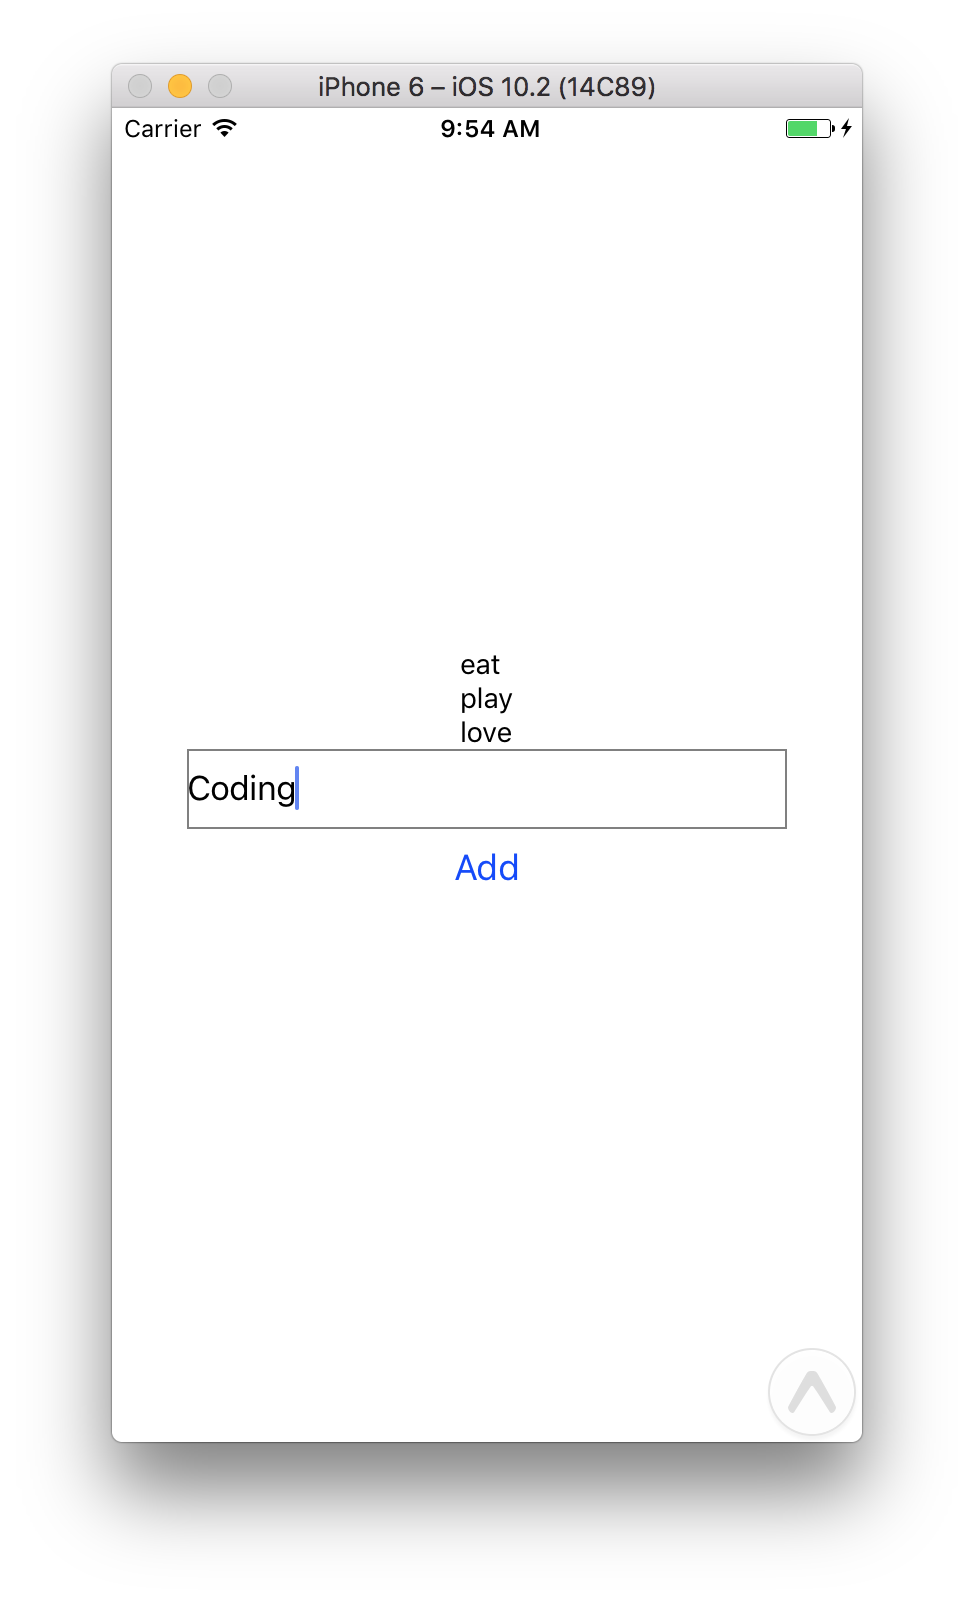
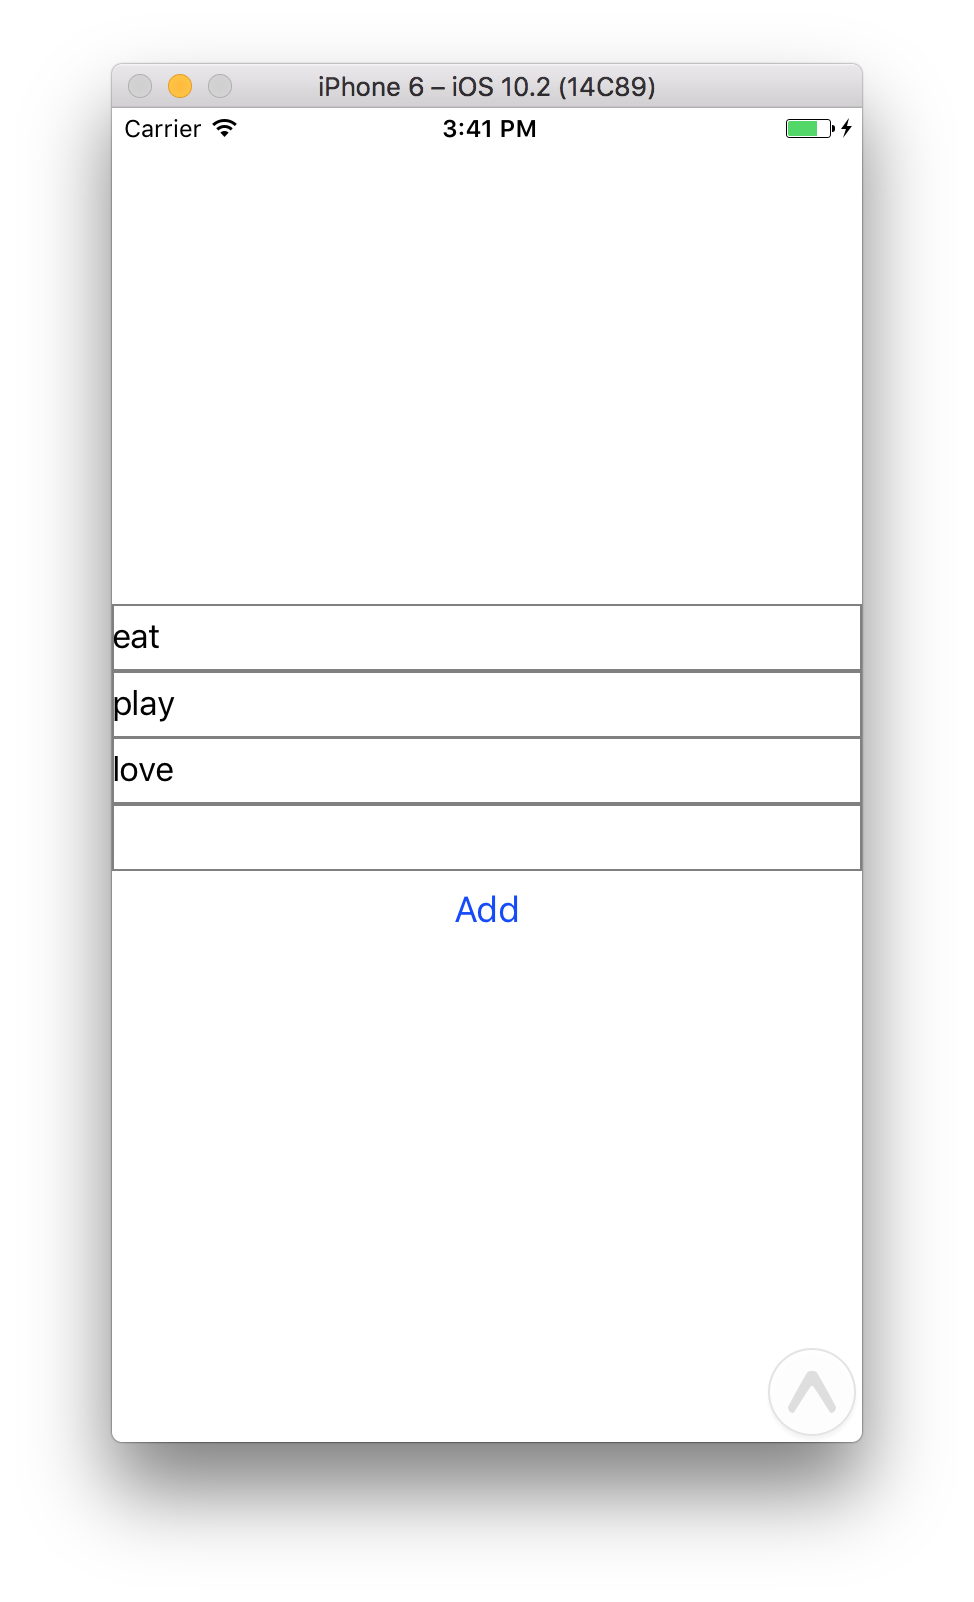
Width 100% deviceWidth이용해서 해결 + reducer state 반환 에러 수정

diff --git a/src/containers/AddTodo.js b/src/containers/AddTodo.js
@@ -1,24 +1,24 @@
 // React
 import React from 'react'
-import { View, TextInput, Button } from 'react-native';
+import { View, TextInput, Button, Dimensions } from 'react-native';
 // Redux
 import { connect } from 'react-redux';
 // Custom
 import * as ActionTypes from '../actions/ActionTypes';
 import { addTodo, initTodo, setText } from '../actions';
 
-let AddTodo = ({ onClickAddButton, textInputValue, handleChangeText, onInitText }) => (
+let AddTodo = ({ onClickAddButton, mainState, handleChangeText, onInitText }) => (
     <View>
         <TextInput
-            style={{width: 300, height: 40, borderColor: 'gray', borderWidth: 1}}
+            style={{width: mainState.deviceWidth, height: mainState.deviceHeight/20, borderColor: 'gray', borderWidth: 1}}
             onChangeText={text => handleChangeText(text)}
-            value={textInputValue}
+            value={mainState.textInputValue}
         />
         <Button
             title="Add"
             onPress={ () => {
-                if ( !textInputValue.trim() ) return;
-                onClickAddButton(textInputValue);
+                if ( !mainState.textInputValue.trim() ) return;
+                onClickAddButton(mainState.textInputValue);
                 onInitText();
             }}
         />
@@ -28,7 +28,7 @@ let AddTodo = ({ onClickAddButton, textInputValue, handleChangeText, onInitText 
 
 // TODO: 뭔가 redux 를 이용해서 textinput value 컨트롤
 const mapStateToProps = (state) => ({
-    textInputValue: state.mainState.textInput
+    mainState: state.mainState
 });
 
 const dispatchToProps = (dispatch, ownProps) => ({

diff --git a/src/reducers/mainState.js b/src/reducers/mainState.js
@@ -1,18 +1,23 @@
 import * as ActionTypes from '../actions/ActionTypes';
+import { Dimensions } from 'react-native';
 
 const initState = {
-    textInput: ''
+    textInputValue: '',
+    deviceWidth: Dimensions.get('window').width,
+    deviceHeight: Dimensions.get('window').height
 };
 
 const mainState = (state = initState, action) => {
     switch (action.type) {
         case ActionTypes.INIT_TODO:
             return {
-                textInput: ''
+                ...state, // state 복사 안해주면 다른 항목들이 날아간다. 
+                textInputValue: ''
             };
         case ActionTypes.SET_TEXT:
             return {
-                textInput: action.text
+                ...state, // state 복사 안해주면 다른 항목들이 날아간다. 
+                textInputValue: action.text
             };
         default:
             return state;

diff --git a/src/components/Todo.js b/src/components/Todo.js
@@ -1,11 +1,11 @@
 import React, { Component } from 'react';
 import { TextInput, View } from 'react-native';
 
-const Todo = ({ todos, handleChangeText }) => (
+const Todo = ({ todos, handleChangeText, mainState }) => (
     <View>
         {todos.map((todo, index) => (
             <TextInput
-                style={{width: 300, height: 40, borderColor: 'gray', borderWidth: 1}}
+                style={{width: mainState.deviceWidth, height: mainState.deviceHeight/20, borderColor: 'gray', borderWidth: 1}}
                 key={index}
                 value={todo.text}
                 onChangeText={text => {

diff --git a/src/containers/TodoList.js b/src/containers/TodoList.js
@@ -13,6 +13,7 @@ import { modifyTodo } from '../actions';
 
 const mapStateToProps = (state) => ({
     todos: state.todos,
+    mainState: state.mainState
 });
 
 const mapDispatchToProps = (dispatch) => ({

diff --git a/TIL/2017_03_17.md b/TIL/2017_03_17.md
@@ -1,5 +1,20 @@
 # 2017.03.17.금
 
+# 중요!!
+
+**Reducer에서 값 반환할 때 반드시 state을 복사한다음 덮어씌우는 식으로 return 하시오!**
+안그러면 다른 값 날아감
+
+```javascript
+const mainState = (state = initState, action) => {
+    switch (action.type) {
+        case ActionTypes.INIT_TODO:
+            return {
+                ...state, // state 복사 안해주면 다른 항목들이 날아간다. 
+                textInputValue: ''
+            };
+```
+
 ## 배운 점
 
 ### React Native 예제들이 setState를 사용할 때 redux에 적용하려면?
@@ -27,6 +42,10 @@ const dispatchToProps = (dispatch, ownProps) => ({
 
 AddTodo = connect(mapStateToProps, dispatchToProps)(AddTodo);
 ```
+
+### Redux 패턴 : 배열안의 오브젝트 수정 할 때 성능향상법
+
+[Redux Patterns: Add/Edit/Remove Objects in an Array](https://medium.com/@justintulk/redux-patterns-add-edit-remove-objects-in-an-array-6ee70cab2456#.1fqc57hoq)
 
 ## 이슈
 
